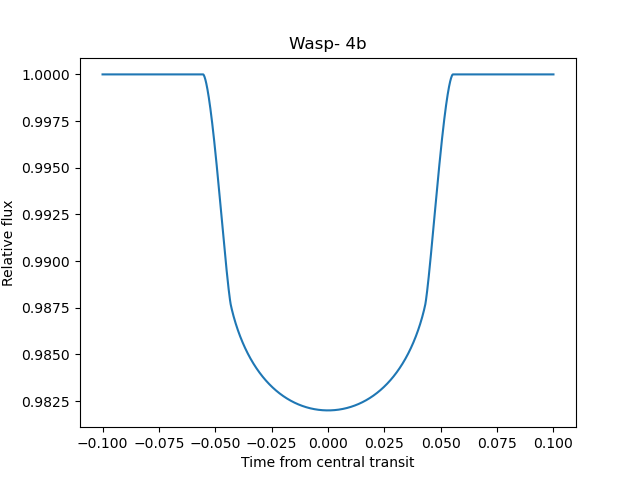
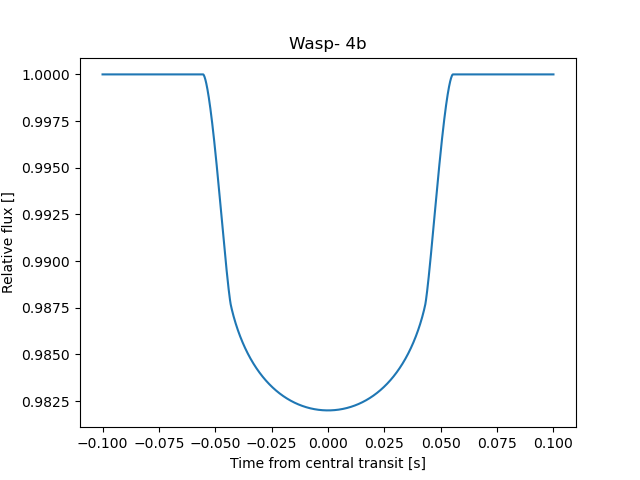
added daneel call

Changed region(s): [[0.375, 0.9375, 0.6562, 1.0], [0.0, 0.4062, 0.0312, 0.625]]

diff --git a/src/daneel/detection/transit.py b/src/daneel/detection/transit.py
@@ -1,28 +1,27 @@
 import batman
 import numpy as np
-import matplotlib as plt
+from matplotlib import pyplot as plt
+import yaml
 
 class Transit:
+    def __init__(self):
+        pass
 
-    def __init__(self, input_file):
-        self.params = batman.TransitParams()       #object to store transit parameters
-        self.params.t0 = 0.                        #time of inferior conjunction
-        self.params.per = 1.338231602                #orbital period
-        self.params.rp = (1.3846*69911)/(1.15 *695000)  #planet radius (in units of stellar radii)
-        self.params.a = (0.02312*149597871)/(1.15*695000)  #semi-major axis (in units of stellar radii)
-        self.params.inc = 88.87                      #orbital inclination (in degrees)
-        self.params.ecc = 0.0053                    #eccentricity
-        self.params.w = 90.                        #longitude of periastron (in degrees)
-        self.params.limb_dark = "quadratic"        #limb darkening model
-        self.params.u = [0.46976666666666667, 0.18760000000000002]      #limb darkening coefficients [u1, u2, u3, u4]
+    def get_transit(self, PathInput):
+        Labels=["t0","per","rp","a","inc","ecc","w","limb_dark","u"]
+        with open(PathInput,"r") as f:
+            ParamsDict=yaml.safe_load(f)
+        params = batman.TransitParams()       #object to store transit parameters
+        for label in Labels:
+            setattr(params,label,ParamsDict[label])    
+        t = np.linspace(-0.1, 0.1, 2000)  #times at which to calculate light curve
 
-    def get_transit(self):
-        t = np.linspace(-0.025, 0.025, 1000)  #times at which to calculate light curve
         m = batman.TransitModel(params, t)    #initializes model
 
         # light curve model
         flux = m.light_curve(params) #calculates light curve
         plt.plot(t, flux)
-        plt.xlabel("Time from central transit")
-        plt.ylabel("Relative flux")
-        plt.savefig('WASP-4 b_assignment1_taskF.png')
+        plt.xlabel("Time from central transit [s]")
+        plt.ylabel("Relative flux []")
+        plt.title(ParamsDict["Name"])
+        plt.savefig(ParamsDict["Name"]+'.png')

diff --git a/src/daneel/detection/transitVersionForG.py b/src/daneel/detection/transitVersionForG.py
@@ -4,31 +4,25 @@ from matplotlib import pyplot as plt
 import yaml
 import argparse
 
-def transit(PathInput):
-    Labels=["t0","per","rp","a","inc","ecc","w","limb_dark","u"]
-    with open(PathInput,"r") as f:
-        ParamsDict=yaml.safe_load(f)
-    params = batman.TransitParams()       #object to store transit parameters
-    for label in Labels:
-        setattr(params,label,ParamsDict[label])    
-    t = np.linspace(-0.1, 0.1, 2000)  #times at which to calculate light curve
+class Transit:
+    def __init__(self):
+        pass
 
-    m = batman.TransitModel(params, t)    #initializes model
+    def transit(self, PathInput):
+        Labels=["t0","per","rp","a","inc","ecc","w","limb_dark","u"]
+        with open(PathInput,"r") as f:
+            ParamsDict=yaml.safe_load(f)
+        params = batman.TransitParams()       #object to store transit parameters
+        for label in Labels:
+            setattr(params,label,ParamsDict[label])    
+        t = np.linspace(-0.1, 0.1, 2000)  #times at which to calculate light curve
 
-    # light curve model
-    flux = m.light_curve(params) #calculates light curve
-    plt.plot(t, flux)
-    plt.xlabel("Time from central transit [s]")
-    plt.ylabel("Relative flux []")
-    plt.title(ParamsDict["Name"])
-    plt.savefig(ParamsDict["Name"]+'.png')
+        m = batman.TransitModel(params, t)    #initializes model
 
-if __name__ == "__main__":
-    parser = argparse.ArgumentParser(description="Plot the transit light curve.")
-    parser.add_argument("-i", help="Path parameters", required=True, type=str)
-    parser.add_argument("-t", "--transit", help="Generate transit light curve", required=True)    
-    args = parser.parse_args()
-
-    if args.transit:
-        transit(args.i)  # Path to the YAML parameters file
-        
+        # light curve model
+        flux = m.light_curve(params) #calculates light curve
+        plt.plot(t, flux)
+        plt.xlabel("Time from central transit [s]")
+        plt.ylabel("Relative flux []")
+        plt.title(ParamsDict["Name"])
+        plt.savefig(ParamsDict["Name"]+'.png')

diff --git a/src/daneel/detection/__init__.py b/src/daneel/detection/__init__.py
@@ -1,2 +1,2 @@
 from .data_process import *
-#from .trasit import Transit
+from .transit import Transit
